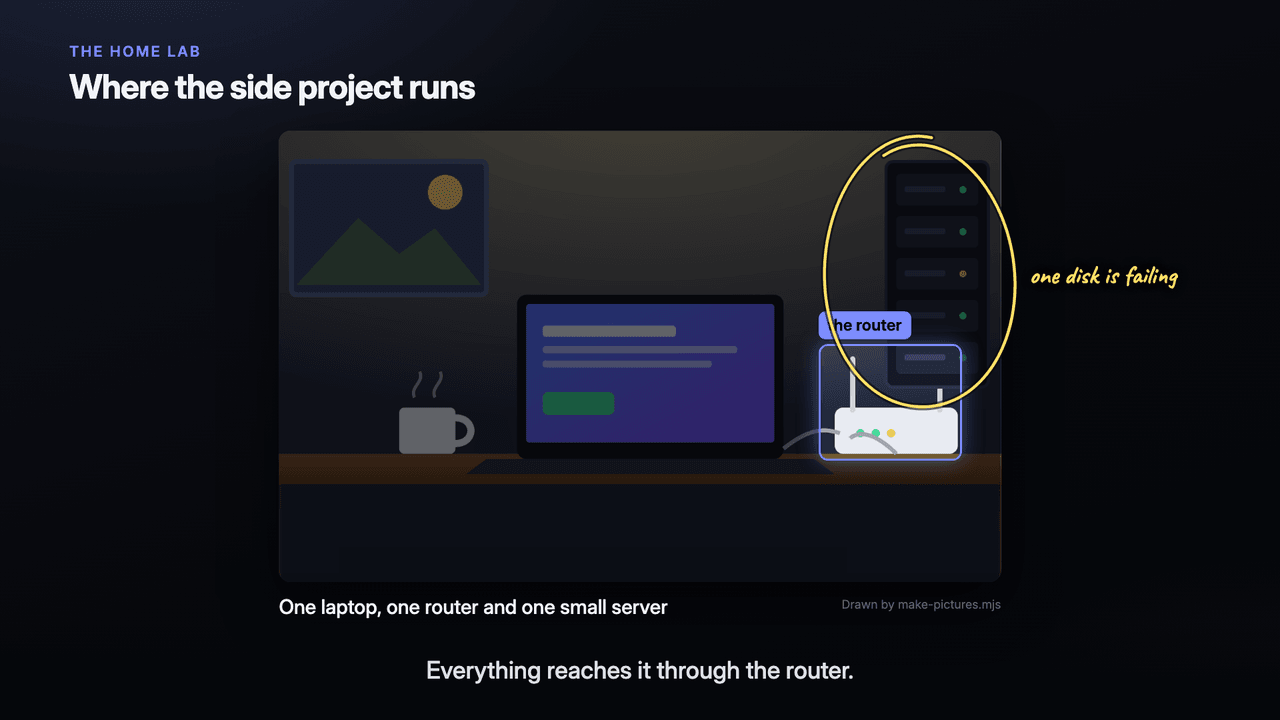
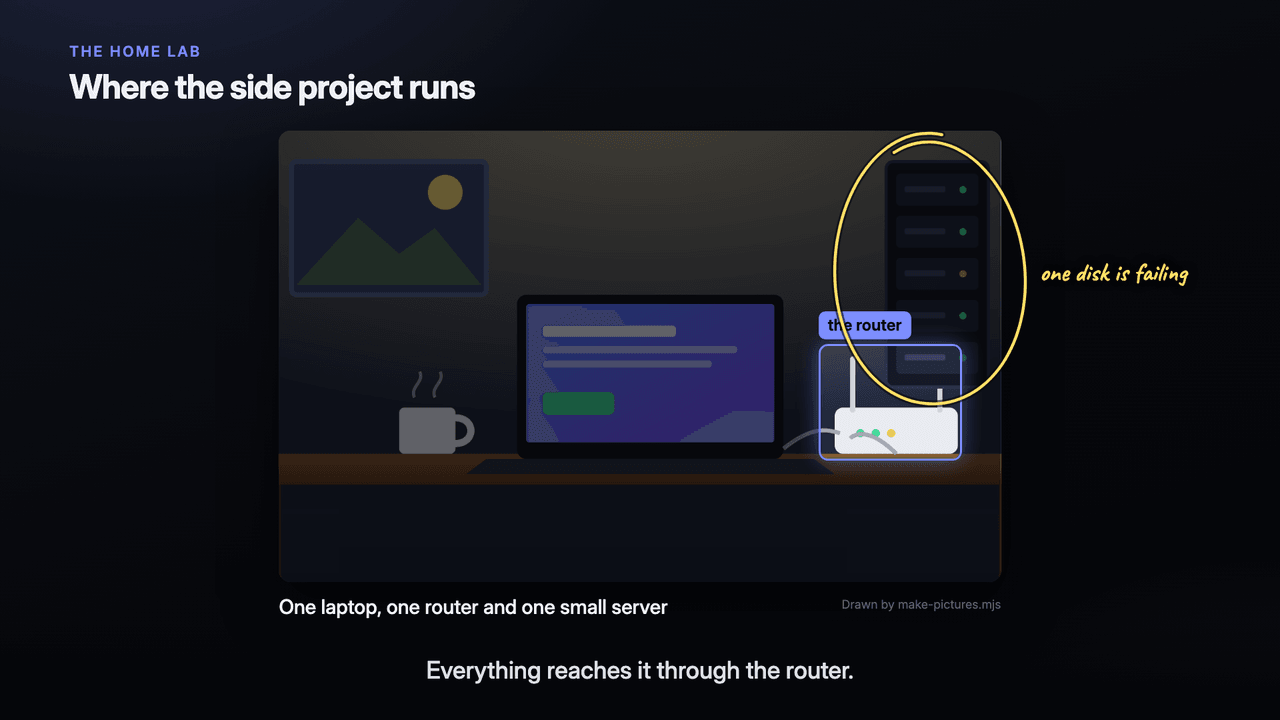
Regenerate the gallery
Every still but the image demo's comes out the same; its ink now follows the
server as the picture pushes in. The camera and ink descriptions follow their
references.

diff --git a/docs/gallery.md b/docs/gallery.md
@@ -312,7 +312,7 @@ Storyboard: [examples/primitives/timeline/storyboard.json](../examples/primitive
 
 ### camera
 
-A camera on any stepped scene: a step's `camera` zooms and pans to what it names, and stays there until a later step's camera, or `"all"` pulls back to the whole scene.
+A camera on any stepped scene but a map: a step's `camera` zooms and pans to what it names, and stays there until a later step's camera, or `"all"` pulls back to the whole scene.
 
 ![The camera demo's svg scene, at the end of its last step](assets/scenes/camera.png)
 
@@ -320,7 +320,7 @@ Storyboard: [examples/primitives/camera/storyboard.json](../examples/primitives/
 
 ### ink
 
-A pen that writes and draws on any stepped scene, as on a whiteboard. A step's `draw` lists what to draw; each item is written on as the voice reaches its cue words and stays until a later step's `erase`.
+A pen that writes and draws on any stepped scene, as on a whiteboard. A step's `draw` lists what to draw; each item is written on as the voice reaches its cue words and stays until a later step's `erase`. An item on refs moves with them when a later step moves them, such as a bar a sort slides.
 
 ![The ink demo's array scene, at the end of its last step](assets/scenes/ink.png)
 
